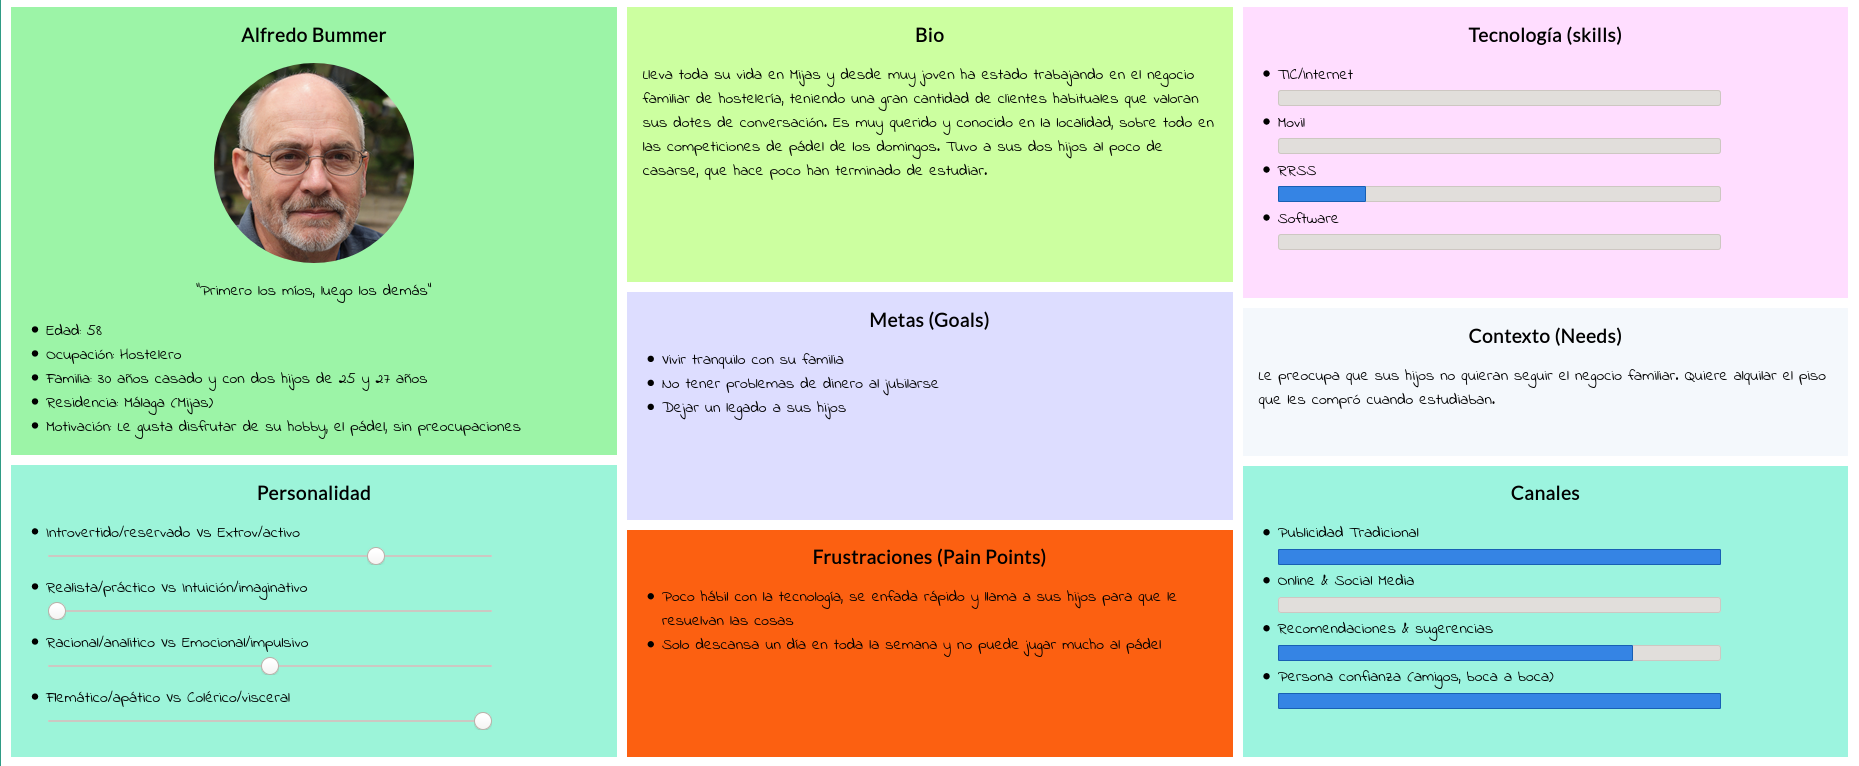
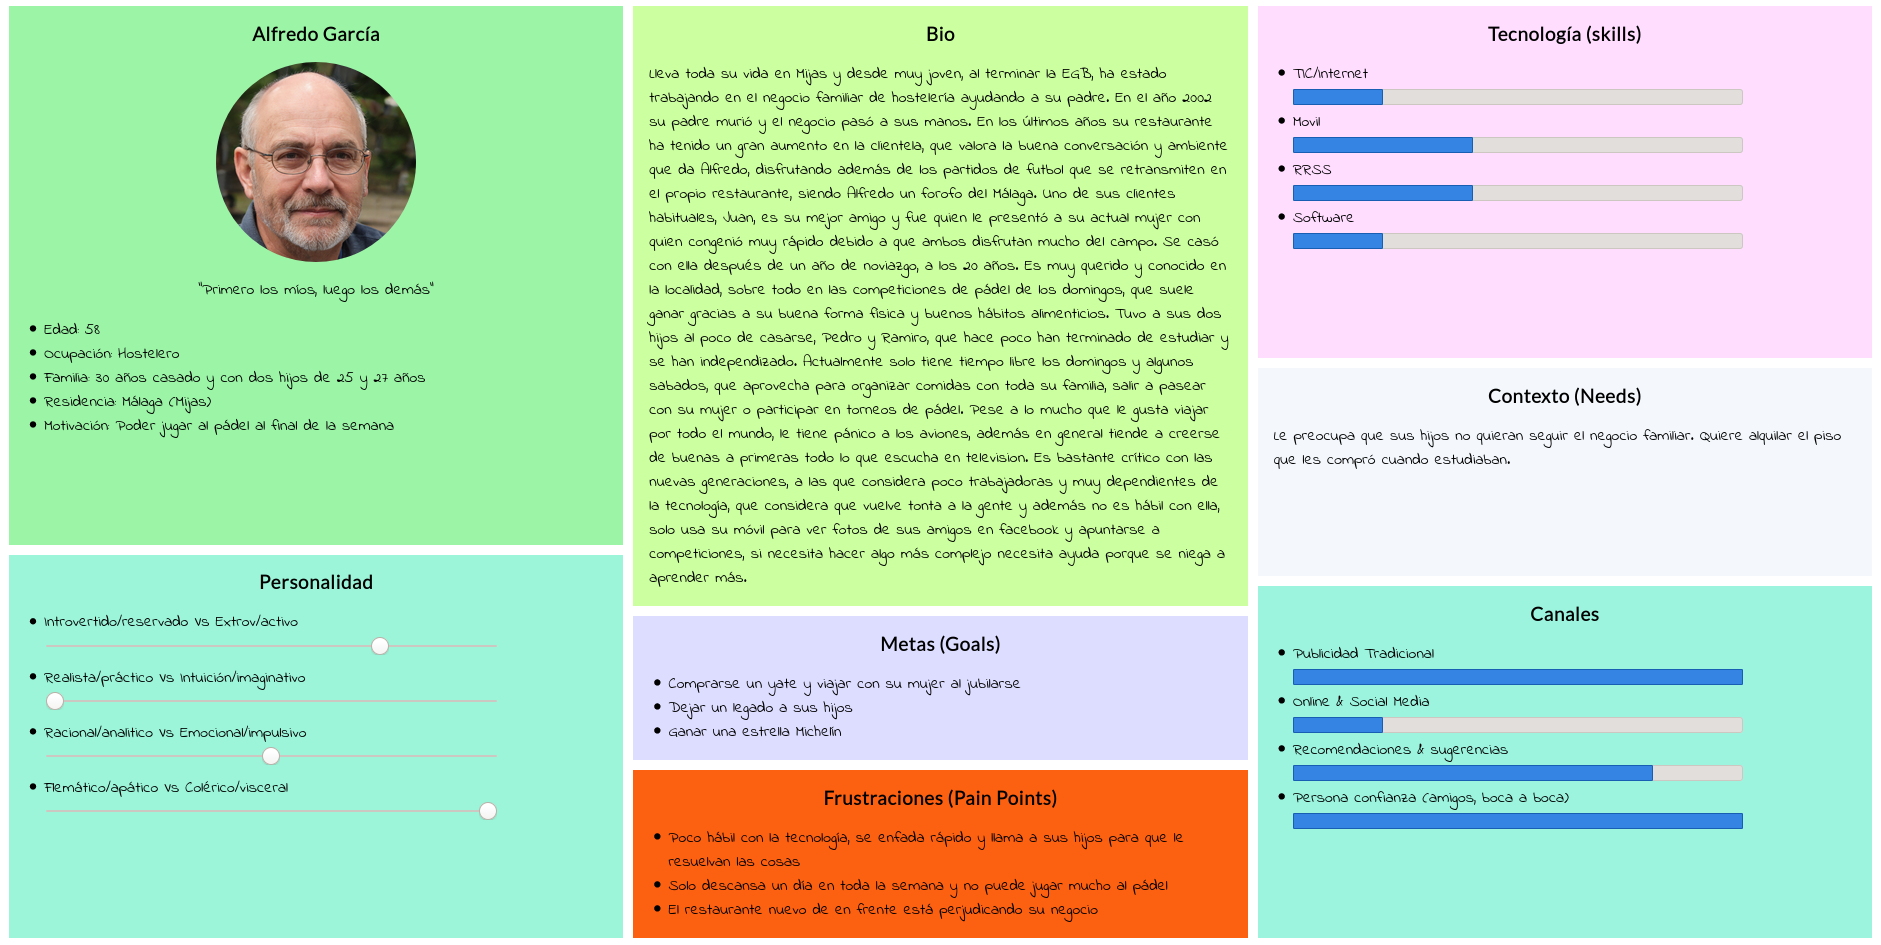
Cambiado Analisis Competencia y Personas

diff --git a/P1/README.md b/P1/README.md
@@ -7,3 +7,56 @@
 - 2 Personas 
 - 2 User Journey Map  ( 1 por persona)
 - Revisión de Usabilidad 
+
+
+
+## A. Análisis de competencia
+
+En la siguiente tabla se resume si varias páginas web de economía colaborativa basadas en un modelo B2C cumplen o no varias características importantes. Estas opciones asignadas son: Habitoom, Badi, Couchsurfing y Compartetupiso.
+
+|                                              | Habitoom | **Badi** | Couchsurfing | Compartetupiso |
+| -------------------------------------------- | -------- | -------- | ------------ | -------------- |
+| Gratuito                                     | Sí       | Sí       | Sí           | Sí             |
+| Tiene App                                    | No       | Sí       | Sí           | No             |
+| Ayuda interactiva                            | No       | No       | No           | No             |
+| Centrado en las personas                     | No       | Sí       | Sí           | Sí             |
+| Recomendaciones personalizadas               | No       | Sí       | Sí           | No             |
+| Gran base de usuarios                        | No       | Sí       | Sí           | Sí             |
+| Chat con usuarios                            | No       | Sí       | No           | No             |
+| Fácil de usar                                | Sí       | Sí       | Sí           | Sí             |
+| Para buscar piso y/o alquilar el tuyo propio | Sí       | Sí       | Sí           | Sí             |
+| Incluye paises de todo el mundo              | Sí       | Sí       | Sí           | Sí             |
+| Control de pago seguro                       | No       | Sí       | No           | No             |
+
+La opción elegida es **Badi** puesto que es la que he visto más simple y a la vez completa, centrándose a la vez en los alojamientos y en las personas, y en general siguiendo un modelo simple de buscar alojamiento por lugar y según cómo son las personas con las que compartir alojamiento. Otras opciones como Couchsurfing se alejan un poco más del compartir alojamiento y gastos (puesto que la gente ofrece gratis el sitio) y no está tan pensada para largas estancias, por lo que ha sido descartada. Además, varias partes de la página no están traducidas al español, como la ayuda.
+
+A todas ellas les falta la opción de tener ayuda interactiva, pese a ser bastante simples, un usuario poco experimentado puede tener problemas. Todas tienen FAQ pero es bastante pobre y te saca de la propia página por lo que puede resultar poco cómodo. Habitoom por su parte tiene un número de WhatsApp, pero es insuficiente porque no se da más ayuda que esa. Esta además tiene una base de usuarios muy pobre, por lo que ya es fácil descartarla ya que lo principal de estas páginas es tener mucha variedad de ofertas. Por ejemplo, busqué pisos en Granada y no existía ninguno. 
+
+En el resto se pueden encontrar muchos usuarios, además de que son páginas ya muy conocidas de por sí.
+
+Compartetupiso ofrece distintas categorías de compartir piso, sin embargo una vez en cada una de ellas la personalización es mínima, basándose el anuncio en un texto propiamente escrito por el interesado. Tanto en Compartetupiso como en Habitoom el funcionamiento consiste en otras personas contactando contigo, mediante los datos que tú proporcionas. Sin embargo Badi sí que tiene un chat, lo cual la hace más útil y simple al poder hablar con las personas directamente en la aplicación.
+
+Badi, además, es la que más se centra en el usuario de las cuatro, puesto que al completar tu perfil te pregunta varias preguntas básicas sobre ti, a diferencia del resto de páginas donde esto sólo se explica en una caja de texto sin ninguna guía de qué poner, vale cualquier cosa.
+
+En Badi siendo inquilino se controlan los pagos mediante la propia página, añadiendo un plus de seguridad que no tienen el resto, que dejan ese control a los usuarios fuera de la propia aplicación.
+
+
+
+## B. Persona
+
+Se han diseñado dos personas: **Alfredo** de 58 años y **Alexa** de 25. En sus respectivas fichas se pueden ver sus características principales y su biografía.
+
+**Alfredo García** es un hombre hostelero de 58 años. Representa un tipo de persona bastante común, siendo alguien conocido en su localidad, amigable, querido, familiar y que además lleva su propio negocio. Es una persona con poco tiempo, y a la que le gusta desarrollar sus hobbies en ese poco tiempo, por lo que  es importante tener en cuenta que eso puede llevar a que esta persona pueda deshechar rápido una aplicación. Además, es torpe con la tecnología y se frustra fácilmente, que siempre es interesante a la hora de analizar cualquier aplicación para medir lo intuitiva o agradable al uso que puede ser esta. 
+
+![](/home/jlgallego99/Escritorio/Informatica/2o Cuatrimestre/DIU/DIU20/P1/persona1.png)
+
+**Alexa Slowly** es una chica tímida e independiente de 25 años, estudiante y con muchas inquietudes intelectuales que quiere desarrollar, siendo un tipo de persona propensa a probar siempre nuevas cosas y, además, ser difícil de contentar debido a que es una persona competitiva y que se fija en los pequeños detalles. Es importante la primera impresión que pueda tener una aplicación en una persona de este tipo. También, al ser una persona tímida, puede tener problemas o ciertas preferencias a la hora de interactuar con otras personas en una aplicación, por lo que será cautelosa en ese sentido.
+
+![](/home/jlgallego99/Escritorio/Informatica/2o Cuatrimestre/DIU/DIU20/P1/persona2.png)
+
+## C. User Journey Map
+
+
+
+## D. Revisión de Usabilidad
+

diff --git a/README.md b/README.md
@@ -31,18 +31,32 @@ Qué es economia colaborativa: Martínez-Polo, J. (2019). **El fenómeno del con
 
 >>> Describe brevemente características de las aplicaciones que tienes asignadas, y por qué has elegido una de ellas (150-300 caracteres) 
 
-Todas usan un modelo B2C de economia colaborativa en web o app, haciendo de intermediarias para alojamiento, un viaje por el mundo o compartir gastos. La aplicación escogida es **Habitoom** ya que tiene un modelo premium interesante para analizar y a diferencia de las otras tiene el problema de centrarse más en el piso que en los inquilinos.
+Todas usan un modelo B2C, haciendo de intermediarias para alojamiento. La opción escogida es **Badi** por ser la más simple e intuitiva, con app de móvil y con mejores mecanismos enfocados a las personas.
+
+|                                              | Habitoom | **Badi** | Couchsurfing | Compartetupiso |
+| -------------------------------------------- | -------- | -------- | ------------ | -------------- |
+| Gratuito                                     | Sí       | Sí       | Sí           | Sí             |
+| Tiene App                                    | No       | Sí       | Sí           | No             |
+| Ayuda interactiva                            | No       | No       | No           | No             |
+| Centrado en las personas                     | No       | Sí       | Sí           | Sí             |
+| Recomendaciones personalizadas               | No       | Sí       | Sí           | No             |
+| Gran base de usuarios                        | No       | Sí       | Sí           | Sí             |
+| Chat con usuarios                            | No       | Sí       | No           | No             |
+| Fácil de usar                                | Sí       | Sí       | Sí           | Sí             |
+| Para buscar piso y/o alquilar el tuyo propio | Sí       | Sí       | Sí           | Sí             |
+| Incluye paises de todo el mundo              | Sí       | Sí       | Sí           | Sí             |
+| Control de pago seguro                       | No       | Sí       | No           | No             |
+
+[Click aquí para leer más sobre el análisis competitivo](P1/README.md)
 
 ![Método UX](img/Persona.png) 1.b Persona
 -----
 
 >>> Comenta brevemente porqué has seleccionado a esas personas y sube una captura de pantalla de su ficha  (80-150 caracteres)
 
-**Alfredo Bummer**: Siempre es interesante la perspectiva de una persona torpe con la tecnología al analizar una aplicación. 
+Se han diseñado dos personas: **Alfredo** de 58 años, un hostelero poco hábil con la tecnología, y **Alexa** de 25 años, una estudiante tímida e inteligente. [Click aquí para leer más sobre ellos](P1/README.md)
 
 ![](P1/persona1.png)
-
-**Alexa Slowly**: Una persona muy tímida e independiente puede tener problemas para encontrar compañeros de su gusto en una páginza que no ofrece muchas garantías en esto.
 
 ![](P1/persona2.png)
 
